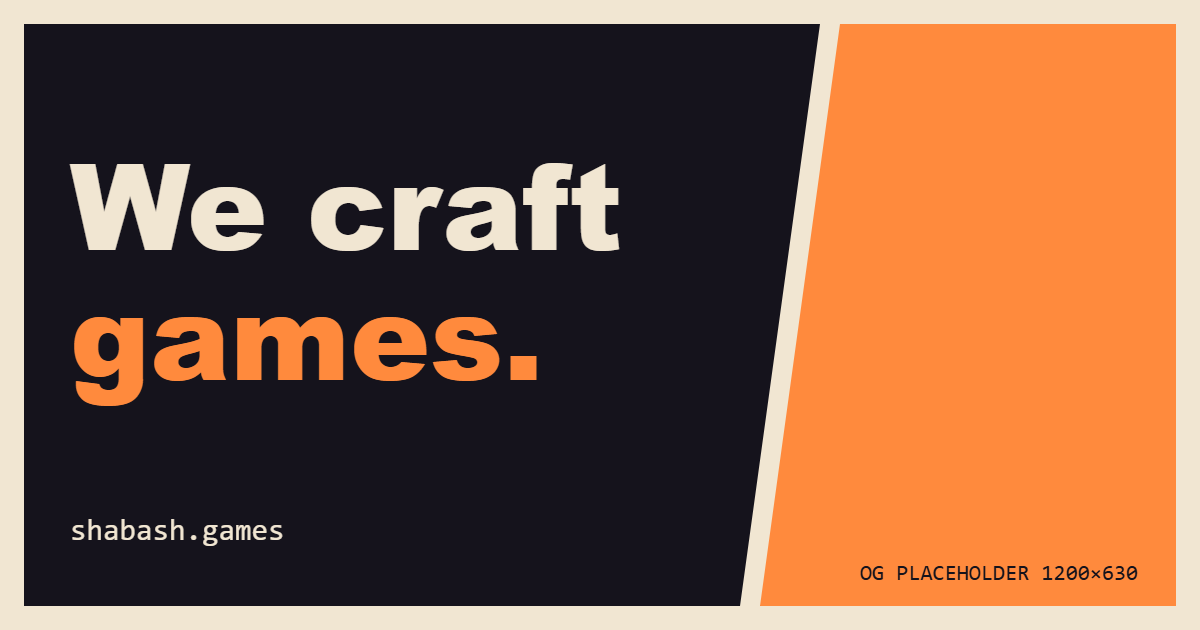
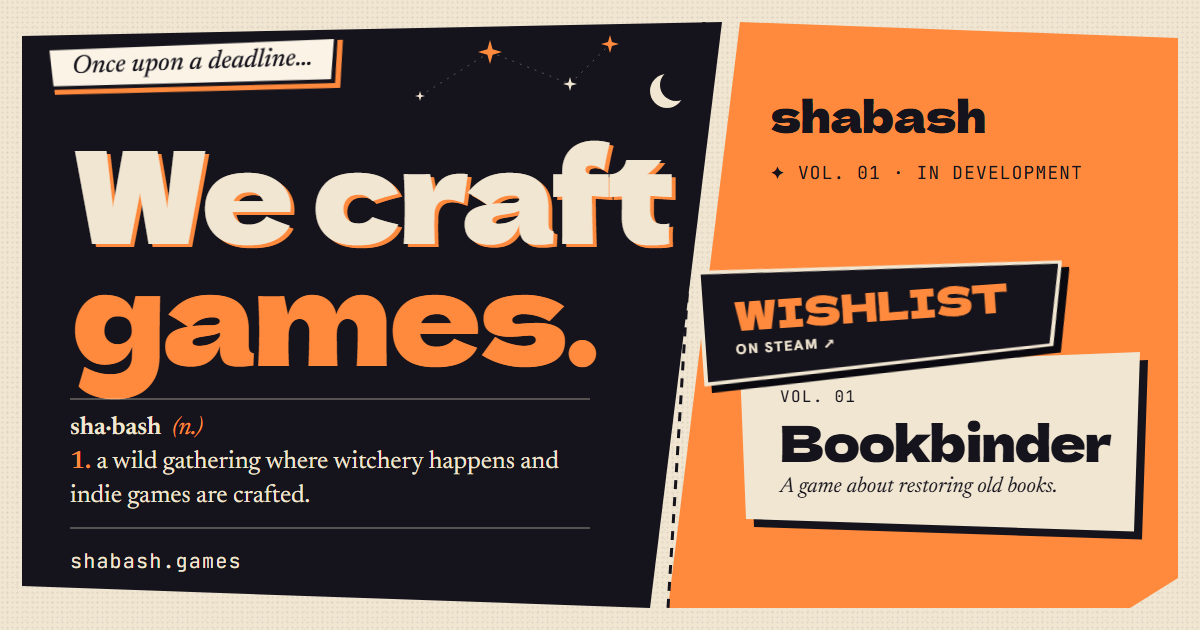
Replace placeholder share image with designed OG image
Adds og/og.html as the editable source and og/render.sh to re-render it.

Claude-Session: https://claude.ai/code/session_01U1PEAfcQ9fCh8FriEnsqAe

diff --git a/og/og.html b/og/og.html
@@ -1,0 +1,59 @@
+<!DOCTYPE html>
+<!-- Source for docs/og-image.png (1200×630). Re-render with og/render.sh -->
+<html><head><meta charset="utf-8">
+<style>
+@font-face{font-family:'Dela Gothic One';src:url(../docs/fonts/DelaGothicOne-latin.woff2)}
+@font-face{font-family:'Hanken Grotesk';font-weight:400 700;src:url(../docs/fonts/HankenGrotesk-latin.woff2)}
+@font-face{font-family:'Newsreader';font-weight:400 600;src:url(../docs/fonts/Newsreader-latin.woff2)}
+@font-face{font-family:'Newsreader';font-style:italic;font-weight:400 500;src:url(../docs/fonts/Newsreader-italic-latin.woff2)}
+@font-face{font-family:'JetBrains Mono';src:url(../docs/fonts/JetBrainsMono-latin.woff2)}
+:root{--ink:#15131c;--deep:#0a0910;--pk:#ff8a3d;--paper:#f1e6d2;--lp:#fbf4e6;--star:polygon(50% 0,61% 39%,100% 50%,61% 61%,50% 100%,39% 61%,0 50%,39% 39%)}
+*{box-sizing:border-box;margin:0}
+html,body{width:1200px;height:630px;overflow:hidden}
+body{background-color:var(--paper);background-image:radial-gradient(rgba(21,19,28,.05) 1px,transparent 1.3px),radial-gradient(rgba(21,19,28,.035) 1px,transparent 1.3px);background-size:5px 5px,9px 9px;background-position:0 0,3px 4px;position:relative;font-family:'Hanken Grotesk'}
+.p1{position:absolute;left:22px;top:22px;width:700px;height:586px;background:var(--ink);clip-path:polygon(0 14px,100% 0,calc(100% - 72px) 100%,0 calc(100% - 22px))}
+.p2{position:absolute;left:668px;top:22px;width:510px;height:586px;background:var(--pk);clip-path:polygon(72px 0,100% 16px,100% calc(100% - 30px),calc(100% - 48px) 100%,0 100%)}
+.stitch{position:absolute;left:0;top:0;width:1200px;height:630px}
+.narr{position:absolute;transform:rotate(var(--r));filter:drop-shadow(5px 5px 0 var(--sh,var(--pk)));font:italic 500 26px 'Newsreader';white-space:nowrap}
+.narr>span{display:block;background:var(--ink);padding:4px;clip-path:polygon(0 4%,100% 0,98.5% 100%,1% 94%)}
+.narr>span>span{display:block;background:var(--lp);color:var(--ink);padding:6px 22px 8px;clip-path:polygon(0 4%,100% 0,98.5% 100%,1% 94%)}
+h1{position:absolute;left:70px;top:128px;font:400 128px/.95 'Dela Gothic One';letter-spacing:-.03em;color:var(--paper)}
+h1 .a{text-shadow:4px 3px 0 var(--pk)} h1 .b{color:var(--pk)}
+.dict{position:absolute;left:70px;top:398px;width:520px;border-top:2px solid rgba(241,230,210,.3);border-bottom:2px solid rgba(241,230,210,.3);padding:12px 0 14px;color:var(--paper);font:400 25px/1.35 'Newsreader'}
+.dict b{font-weight:600}.dict i{color:var(--pk)}.dict .n{color:var(--pk);font-weight:600}
+.domain{position:absolute;left:70px;top:548px;font:400 20px 'JetBrains Mono';letter-spacing:.06em;color:var(--paper)}
+.star{position:absolute;clip-path:var(--star)}
+.moon{position:absolute;width:34px;height:34px;border-radius:50%;background:var(--paper)}
+.moon::after{content:"";position:absolute;left:10px;top:-5px;width:32px;height:32px;border-radius:50%;background:var(--ink)}
+.brand{position:absolute;left:770px;top:92px;display:flex;align-items:center;gap:14px;font:400 44px/1 'Dela Gothic One';letter-spacing:-.02em;color:var(--ink)}
+.chap{position:absolute;left:770px;top:160px;font:400 18px 'JetBrains Mono';letter-spacing:.06em;color:var(--ink)}
+.plate-wrap{position:absolute;left:740px;top:352px;filter:drop-shadow(8px 8px 0 var(--ink))}
+.plate{width:400px;background:var(--paper);color:var(--ink);clip-path:polygon(0 9%,100% 0,98.5% 100%,1.5% 93%);padding:34px 30px 30px 40px}
+.vol{font:400 16px 'JetBrains Mono';letter-spacing:.08em}
+.title{font:400 50px/1 'Dela Gothic One';letter-spacing:-.03em;margin:8px 0 8px}
+.tag{font:italic 400 22px/1.3 'Newsreader'}
+.slab-wrap{position:absolute;left:700px;top:258px;transform:rotate(-4deg);filter:drop-shadow(7px 7px 0 var(--deep))}
+.slab-o{background:var(--paper);padding:4px;clip-path:polygon(0 0,100% 13%,96% 86%,0 100%)}
+.slab{background:var(--ink);color:var(--pk);padding:22px 52px 24px 30px;clip-path:polygon(0 0,100% 13%,96% 86%,0 100%)}
+.slab .w{font:400 40px/1 'Dela Gothic One';text-transform:uppercase}
+.slab .s{font:700 14px/1 'Hanken Grotesk';letter-spacing:.12em;text-transform:uppercase;margin-top:8px;color:var(--paper)}
+</style></head>
+<body>
+<div class="p1"></div>
+<div class="p2"></div>
+<svg class="stitch"><line x1="704" y1="22" x2="668" y2="608" stroke="#15131c" stroke-width="3" stroke-dasharray="9 8"/>
+<g stroke="#f1e6d2" stroke-opacity=".32" stroke-dasharray="2 6"><line x1="420" y1="96" x2="490" y2="52"/><line x1="490" y1="52" x2="570" y2="84"/><line x1="570" y1="84" x2="610" y2="44"/></g></svg>
+<span class="star" style="left:415px;top:91px;width:10px;height:10px;background:var(--paper)"></span>
+<span class="star" style="left:478px;top:40px;width:24px;height:24px;background:var(--pk)"></span>
+<span class="star" style="left:563px;top:77px;width:14px;height:14px;background:var(--paper)"></span>
+<span class="star" style="left:601px;top:35px;width:18px;height:18px;background:var(--pk)"></span>
+<span class="moon" style="left:650px;top:74px"></span>
+<div class="narr" style="left:46px;top:40px;--r:-2deg"><span><span>Once upon a deadline…</span></span></div>
+<h1><span class="a">We craft</span><br><span class="b">games.</span></h1>
+<div class="dict"><div><b>sha·bash</b> &nbsp;<i>(n.)</i></div><div><span class="n">1.</span> a wild gathering where witchery happens and indie games are crafted.</div></div>
+<div class="domain">shabash.games</div>
+<div class="brand">shabash</div>
+<div class="chap">✦ VOL. 01 · IN DEVELOPMENT</div>
+<div class="plate-wrap"><div class="plate"><div class="vol">VOL. 01</div><div class="title">Bookbinder</div><div class="tag">A game about restoring old books.</div></div></div>
+<div class="slab-wrap"><div class="slab-o"><div class="slab"><div class="w">Wishlist</div><div class="s">on Steam ↗</div></div></div></div>
+</body></html>

diff --git a/docs/index.html b/docs/index.html
@@ -10,7 +10,7 @@
 <meta property="og:url" content="https://shabash.games/">
 <meta property="og:title" content="shabash — We craft games">
 <meta property="og:description" content="A small indie studio crafting cozy, slightly weird games. Wishlist Bookbinder on Steam.">
-<meta property="og:image" content="https://shabash.games/og-image.png">
+<meta property="og:image" content="https://shabash.games/og-image.png?v=2">
 <meta property="og:image:width" content="1200">
 <meta property="og:image:height" content="630">
 <meta name="twitter:card" content="summary_large_image">
